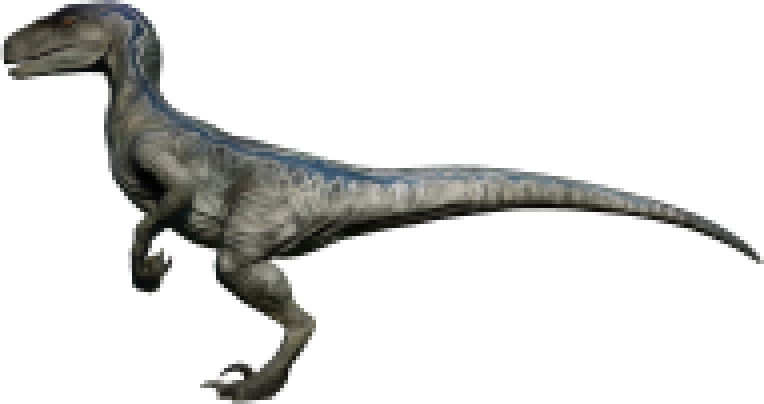
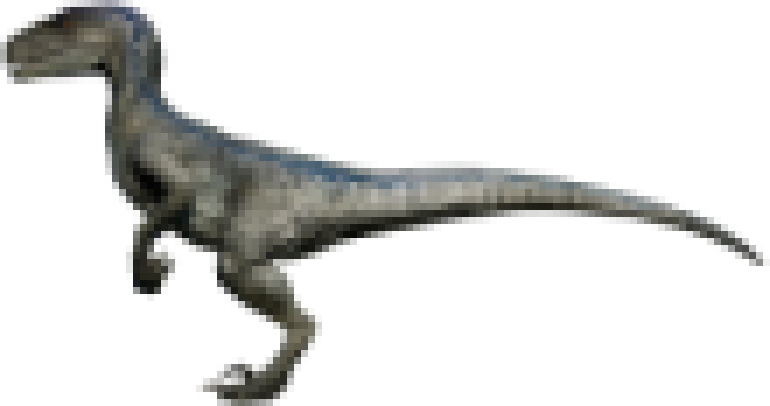
Made home page responsive

diff --git a/styles.css b/styles.css
@@ -132,14 +132,14 @@ main#home {
 
 h1 {
 	font-family: lores-15, sans-serif;
-	font-size: 60px;
+	font-size: 3rem;
 	margin: 0px 0px 20px 0px;
 	color: white;
 }
 
 h2 {
 	font-family: lores-15, sans-serif;
-	font-size: 50px;
+	font-size: 2rem;
 	margin: 0px 0px 20px 0px;
 	color: white;
 }
@@ -154,7 +154,7 @@ div.slide {
 
 p {
 	font-family: lores-12, sans-serif;
-	font-size: 1.1rem;
+	font-size: 1rem;
 	color: white;
 }
 
@@ -171,7 +171,7 @@ main#home {
 }
 
 p#scroll {
-	font-size: 1.5rem;
+	font-size: 1.25rem;
 }
 
 i#east {
@@ -182,12 +182,11 @@ i#east {
 }
 
 div.s1content p {
-	display: inline;
-	margin: 0 1%;
+	display: block;
 }
 
 div.vertical-center {
-	display: flex;
+	display: block;
 	justify-content: center;
 	align-items: flex-end;
 }
@@ -270,14 +269,12 @@ div#scroll-animation {
 	display: flex;
 	flex-direction: column;
 	justify-content: center;
+	margin-left: 2%;
 }
 
 .two div.dino-info {
-	width: 45vw;
-	margin: 50px 0 150px 0;
-	border-style: solid;
-	border: 3px solid #58D298;
-	padding: 2%;
+	width: 70vw;
+	margin: 50px 0px 50px 0;
 }
 
 div.dino-info p{
@@ -313,17 +310,13 @@ img.tyrannosaurus {
 	width: 70%;
 }
 
-
 div.dino-info {
-	width: 45vw;
-	margin: 50px 0 0 5%;
-	border-style: solid;
-	border: 3px solid #58D298;
-	padding: 2%;
+	width: 100vw;
+	margin: 30px 0 0 0%;
 }
 
 div.dino-position {
-	height: 100vw;
+	height: 100vh;
  	display: flex;
  	flex-direction: column;
  	align-items: flex-end;
@@ -563,7 +556,8 @@ footer {
 }
 
 footer img.jeep{
-	width: 22vw
+	width: 22vw;
+	visibility: hidden;
 }
 
 footer div.sub-nav {
@@ -602,6 +596,119 @@ footer a.active{
 /************** END FOOTER **************/
 
 /************* MEDIA QUERIES ****************/
+
+@media (min-width: 410px){
+	h1 {
+		font-size: 3.75rem;
+	}
+
+	p {
+		font-family: lores-12, sans-serif;
+		font-size: 1.1rem;
+		color: white;
+	}
+
+	footer img.jeep{
+		visibility: visible;
+	}
+
+	img.brontosaurus {
+		width: 80%;
+	}
+	img.velociraptor {
+		width: 35%;
+	}
+	img.triceratops {
+		width: 35%;
+	}
+	img.allosaurus {
+		width: 60%;
+	}
+	img.baryonyx {
+		width: 55%;
+	}
+	img.tyrannosaurus {
+		width: 70%;
+	}
+}
+
+@media (min-width: 700px){
+
+	h2 {
+		font-size: 3.125rem;
+	}
+
+	p#scroll {
+		font-size: 1.5rem;
+	}
+
+	i#east {
+	  position: relative;
+	  /* Adjust these values accordingly */
+	  top: 5px;
+	  left: 5px;
+	}
+
+	div.s1content p {
+		display: inline;
+		margin: 0 1%;
+	}
+
+	div.vertical-center {
+		display: flex;
+		justify-content: center;
+		align-items: flex-end;
+	}
+
+	.two div.dino-info {
+		width: 45vw;
+		margin: 50px 0 150px 0;
+		border-style: solid;
+		border: 3px solid #58D298;
+		padding: 2%;
+	}
+
+	div.dino-info {
+		width: 45vw;
+		margin: 7% 0 0 7%;
+		border-style: solid;
+		border: 3px solid #58D298;
+		padding: 2%;
+	}
+}
+
+@media (max-width: 1070px){
+	div.sub-nav {
+		display: none;
+	}
+
+	div.dino-position {
+		margin: 0 50px 0px 0;
+	}
+
+	div.dino-info {
+		width: 70vw;
+	}
+
+	img.brontosaurus {
+		width: 95%;
+	}
+	img.velociraptor {
+		width: 95%;
+	}
+	img.triceratops {
+		width: 95%;
+	}
+	img.allosaurus {
+		width: 90%;
+	}
+	img.baryonyx {
+		width: 95%;
+	}
+	img.tyrannosaurus {
+		width: 90%;
+	}
+}
 
 @media (max-width: 999px){
 	.logo{

diff --git a/index.html b/index.html
@@ -48,9 +48,9 @@
 
 					<!-- <div class="col main"> -->
 					<div class="s1content">
-						<h1>Welcome to Jurassic Park</h1>
+						<h1>Welcome to Jurassic&nbsp;Park</h1>
 						<div class="vertical-center" id="scroll-animation">
-							<p id="scroll">Scroll to drive through the Dinosaur Paddocks!</p><p><i class="material-icons" id="east">east</i></p>
+							<p id="scroll">Scroll to drive through the Dinosaur&nbsp;Paddocks!</p><p><i class="material-icons" id="east">east</i></p>
 						</div>
 					</div>
 					<!-- </div> -->
@@ -61,9 +61,9 @@
 
 			    <div class="slide-dino two">
 						<div class="dino-info">
-							<h2>About Jurassic Park</h2>
+							<h2>About Jurassic&nbsp;Park</h2>
 							<p>Jurassic Park is a science fiction-adventure-drama film directed by Steven Spielberg, based upon the novel of the same name, written by Michael Crichton. The story involves scientists visiting a safari amusement park of genetically engineered dinosaurs on an island over one weekend. Sabotage sets the carnivorous dinosaurs on the loose, and the technicians and visitors attempt to escape the island.</p>
-							<p>Directions: Scroll through our arcade version of Jurassic Park to learn more about the dinosaurs that the movie features. Hover on an image to get a clearer view.</p>
+							<p>Directions: Scroll through our arcade version of Jurassic Park to learn more about the dinosaurs that the movie features. Click on each dinosaur to take out your binoculars and get a closer look.</p>
 						</div>
 					</div>
 
@@ -93,7 +93,7 @@
 							<p>Velociraptors were instinctive hunters and never passed up prey. They killed even when they weren't hungry. They killed just for the pleasure of killing. They were agile, tireless runners and incredible jumpers. They had lethal weapons on each of their four limbs; a strong punch with one of the forearms could lacerate a man. And had powerful jaws that ripped meat instead of biting it. They were also a lot more intelligent than other dinosaurs and seemed to be natural cage-breakers. They also had forked tongues.</p>
 						</div>
 						<div class="dino-position">
-							<img src="images/velociraptor2.png" alt="Velociraptor" class="dino-image velociraptor"/>
+							<img src="images/velociraptor.png" alt="Velociraptor" class="dino-image velociraptor"/>
 						</div>
 					</div>
 
